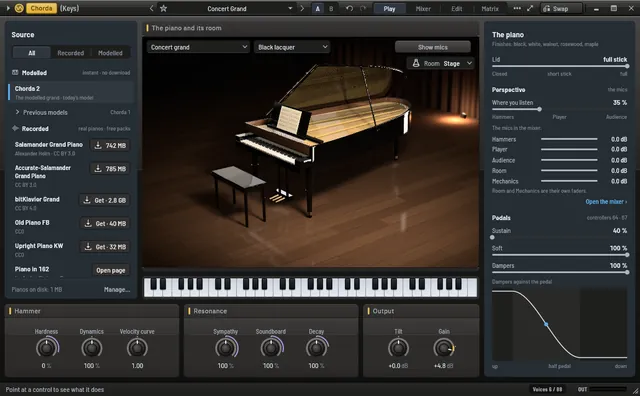
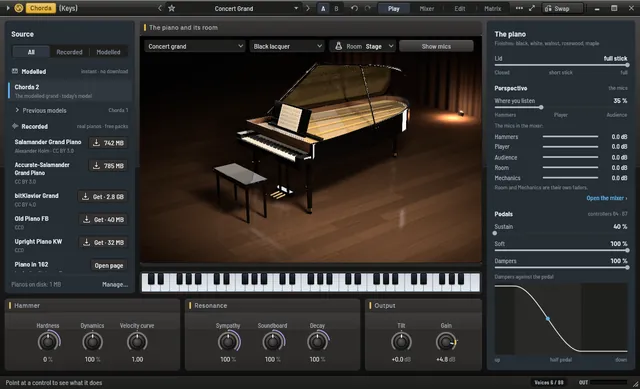
fix/final-d: Chorda's and Tympanum's pictures re-shot on fix/final-e 911b59c7 — each editor at its own size with the shell's padding (Chorda 1119x680, Tympanum 1219x711): Tympanum's Feel, Hi-hat pedal and Kit cards whole with their foot and margin; Photographic, a clean install's content, Chorda on 

diff --git a/web/src/units_data.rs b/web/src/units_data.rs
@@ -176,8 +176,8 @@ pub const INSTRUMENTS: [Unit; 10] = [
         presets: Some(24),
         plugin: false,
         ab: None,
-        big: (1800, 1113),
-        thumb: (640, 396),
+        big: (1800, 1094),
+        thumb: (640, 389),
         es: None,
     },
 
@@ -199,8 +199,8 @@ pub const INSTRUMENTS: [Unit; 10] = [
         presets: None,
         plugin: false,
         ab: None,
-        big: (1800, 1038),
-        thumb: (640, 369),
+        big: (1800, 1050),
+        thumb: (640, 373),
         es: None,
     },
 
